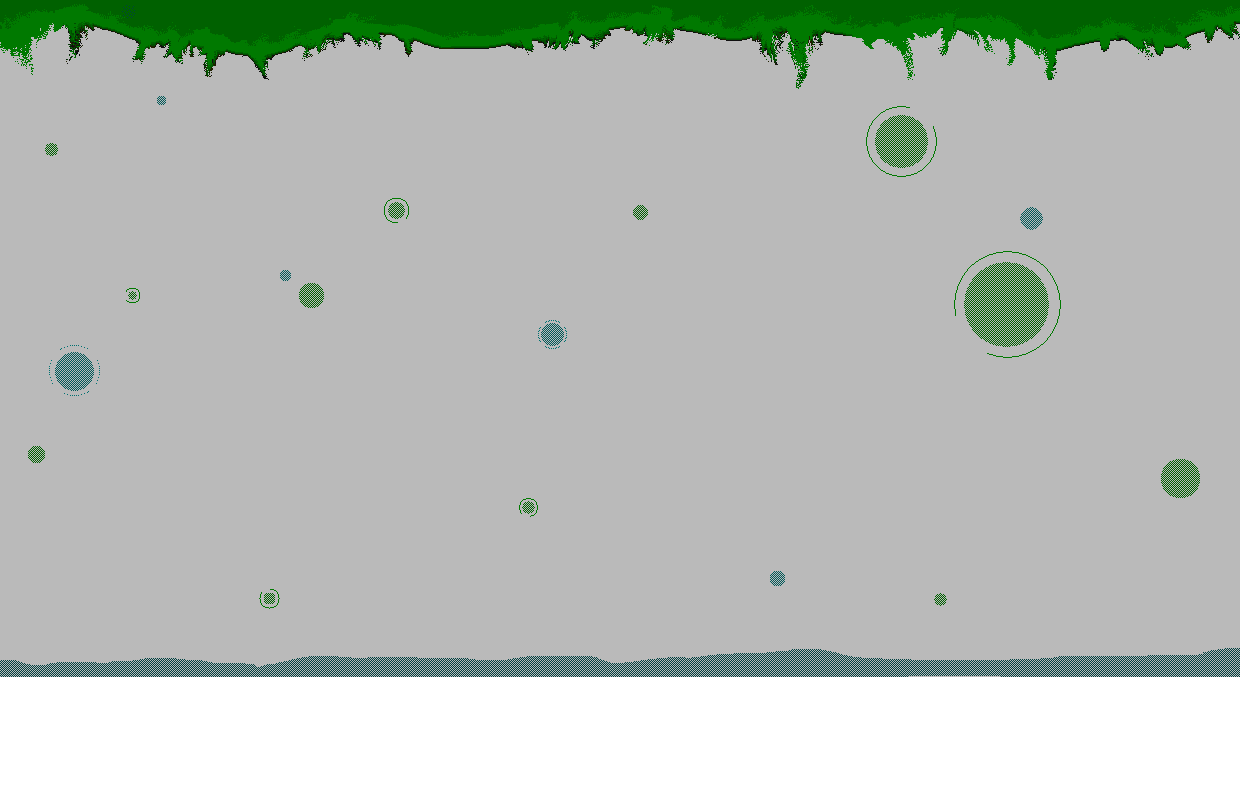
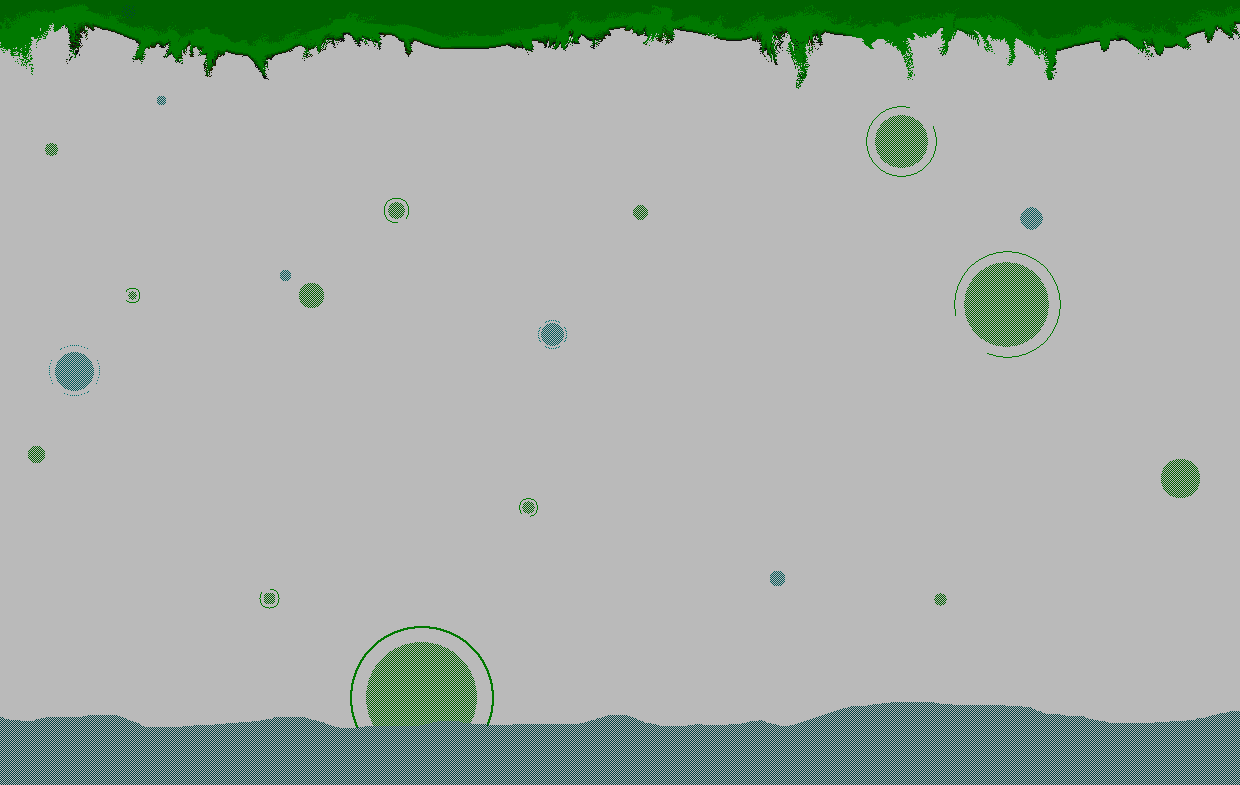
Added basic menu background. Boss can move and is affected by entity hits.

Changed region(s): [[0.0, 0.7949, 1.0, 1.0]]

diff --git a/js/main.js b/js/main.js
@@ -58,9 +58,9 @@ app.Main = {
 		this.gameObject.setController(keyboardController);
 
 		/*** Initialize menu ***/
-		this.menu = new app.Menu();
-		this.menu.addBackgroundSprite(new app.Sprite('menuBackground.jpg', [0, 0], [this.bounds.width, this.bounds.height], 0));
-		this.menu.addTitle("MENU TITLE");
+		this.menu = new app.Menu("main", vec2.fromValues(this.bounds.width / 2, this.bounds.height / 2));
+		this.menu.setBackgroundSprite(new app.Sprite('assets/MenuBackground.png', [0, 0], [1440, 785], [this.bounds.width, this.bounds.height], 0, [0]));
+		//this.menu.addTitle("MENU TITLE");
 		this.gameObject.setMenu(this.menu);
 
 		/*** Initialize world and its conditions ***/
@@ -103,7 +103,7 @@ app.Main = {
 
 				this.addEntity(entity);
 			}
-			bossEntity.applyForce(seek(bossEntity.location, vec2.create(), bossEntity.velocity, 0.2, 0.5));
+			bossEntity.applyForce(arrive(bossEntity.location, vec2.create(), bossEntity.velocity, 0.2, 0.5));
 		});
 
 		var entityPlayer = new app.PlayerEntity(this.bounds["width"] / 2, this.bounds["height"] / 2, 50, 'rgba(255,0,0,1)', 0, "moveable");

diff --git a/js/menu.js b/js/menu.js
@@ -4,14 +4,15 @@ var app = app || {};
 
 app.Menu = function(){
 
-	var Menu = function(type){
+	var Menu = function(type, size){
 		this.type = type;
 		this.controller = null;
 
 		this.listeners = [];
 		this.buttons = [];
-		this.title = "Your New Game";
-		this.backgroundSprite;
+		this.size = size
+		this.title;
+		this.backgroundSprite = undefined;
 	};
 
 	var p = Menu.prototype;
@@ -30,7 +31,7 @@ app.Menu = function(){
 		this.title = title;
 	};
 
-	p.addBackgroundSprite = function(sprite){
+	p.setBackgroundSprite = function(sprite){
 		this.backgroundSprite = sprite;
 	};
 
@@ -45,9 +46,11 @@ app.Menu = function(){
 
 	p.render = function(ctx){
 		if (this.backgroundSprite != undefined) {
-			this.backgroundSprite.render(ctx, app.Main.bounds);
+			this.backgroundSprite.render(ctx, this.size);
 		}
-		app.draw.text(ctx,this.title,100,50,30,'rgba(50,50,50,1)');
+		if (this.title != undefined) {
+			app.draw.text(ctx,this.title,100,50,30,'rgba(50,50,50,1)');
+		}
 	};
 
 	return Menu;

diff --git a/js/loader.js b/js/loader.js
@@ -11,7 +11,8 @@ window.onload = function(){
 			'assets/player.png',
 			'assets/projectile.png',
 			'assets/BossSprite.png',
-			'assets/Background.png'
+			'assets/Background.png',
+			'assets/MenuBackground.png'
 	]);
 
 	//start the game.

diff --git a/js/world.js b/js/world.js
@@ -47,7 +47,6 @@ app.World = function(){
 
 	p.setWorldBounds = function(bounds){
 		this.worldBounds = bounds;
-		console.log(this.worldBounds);
 	};
 
 	p.doUpdateFunction = function(){
